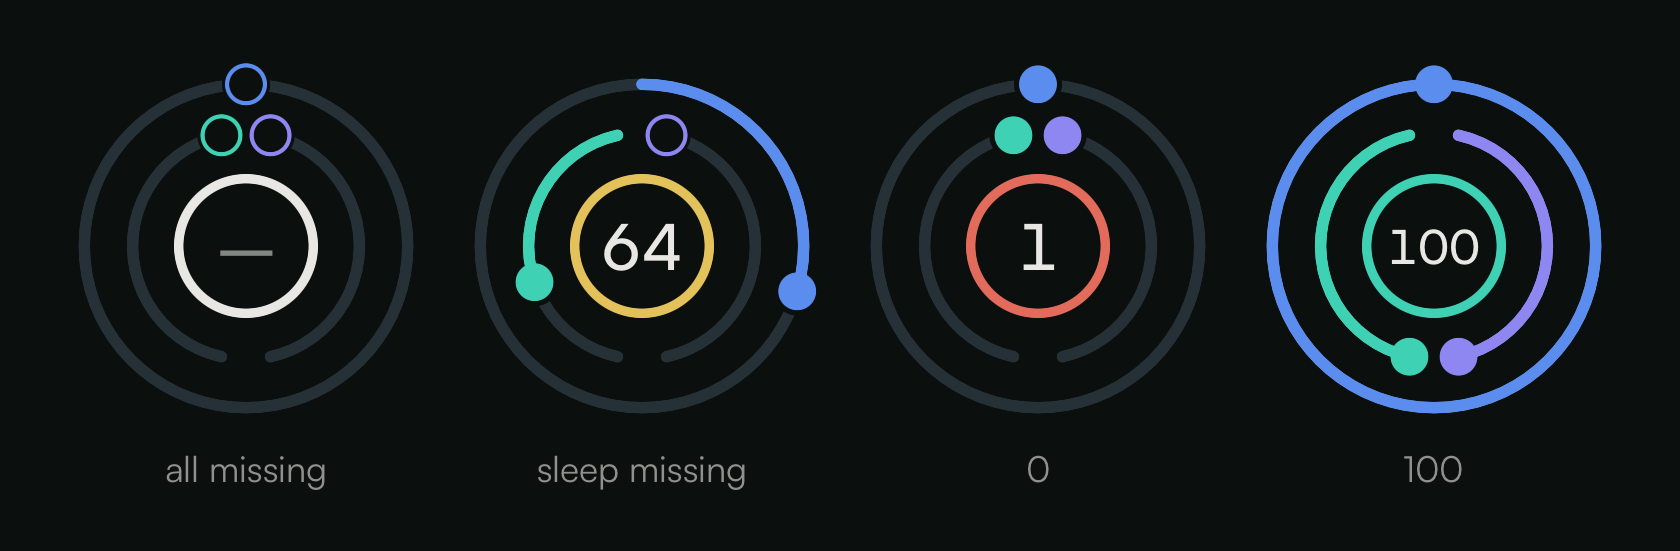
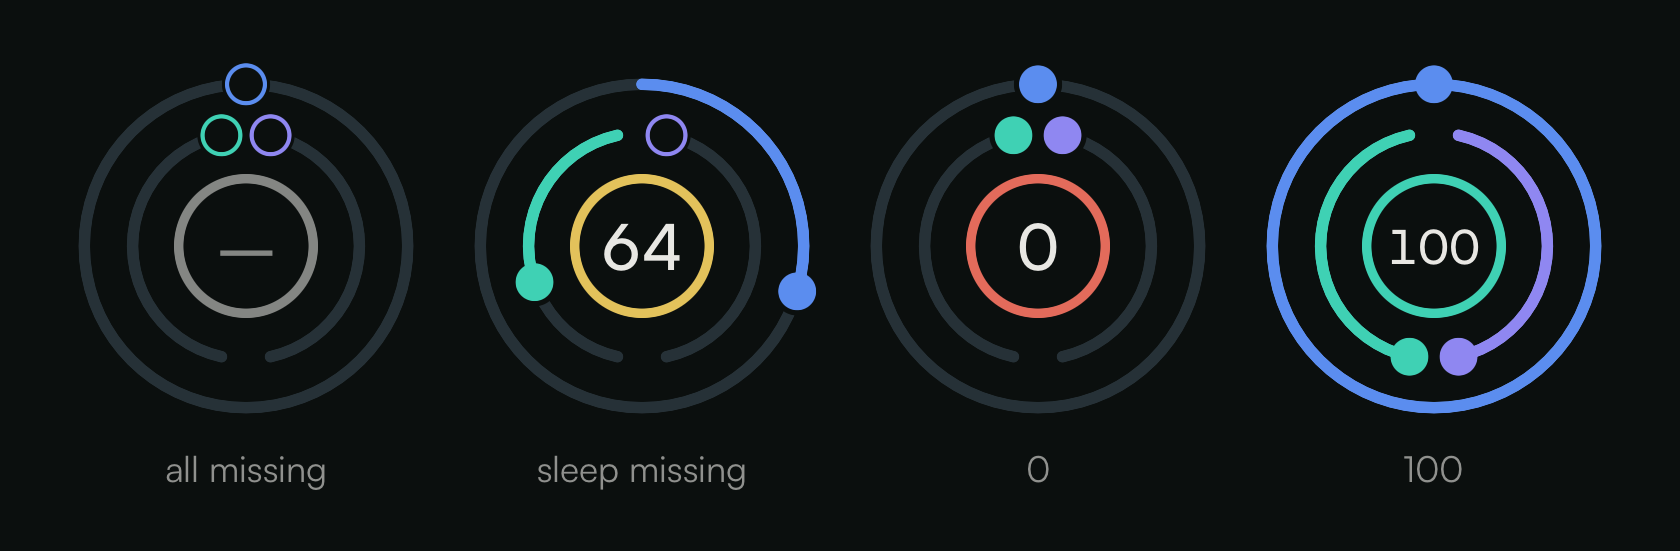
design: OrbitGauge readiness 0 edge, quieter empty centre ring

diff --git a/Ryft/Design/OrbitGauge.swift b/Ryft/Design/OrbitGauge.swift
@@ -120,7 +120,7 @@ struct OrbitGauge: View {
             let d = m.centreRadius * 2 + m.centreStroke
             Circle()
                 .inset(by: m.centreStroke / 2)
-                .stroke(values.readiness.map { Theme.band(forScore: $0) } ?? Theme.textPrimary, lineWidth: m.centreStroke)
+                .stroke(values.readiness.map { Theme.band(forScore: $0) } ?? Theme.textTertiary, lineWidth: m.centreStroke)
                 .frame(width: d, height: d)
             if size.dial >= Self.minDialForNumber {
                 Text(values.readiness.map { String($0) } ?? Fmt.placeholder)
@@ -286,7 +286,7 @@ private struct OrbitCaption: View {
             }
             HStack(spacing: 8) {
                 VStack {
-                    OrbitGauge(mode: .scored(OrbitGaugeValues(readiness: 1, recovery: 0, sleep: 0, strain: 0)), size: .medium)
+                    OrbitGauge(mode: .scored(OrbitGaugeValues(readiness: 0, recovery: 0, sleep: 0, strain: 0)), size: .medium)
                     OrbitCaption(text: "0")
                 }
                 VStack {

diff --git a/RyftTests/OrbitGaugeContrastTests.swift b/RyftTests/OrbitGaugeContrastTests.swift
@@ -49,8 +49,9 @@ import UIKit
                 #expect(onTrack >= 3, "\(name) \(title) on track")
                 #expect(onBackground >= 3, "\(name) \(title) on background")
             }
-            let primary = resolve(Theme.textPrimary, style)
-            lines.append("\(name) centre ring without readiness (textPrimary): on background \(String(format: "%.2f", ratio(primary, background)))")
+            let primary = over(resolve(Theme.textTertiary, style), background)
+            #expect(ratio(primary, background) >= 3, "\(name) centre ring without readiness")
+            lines.append("\(name) centre ring without readiness (textTertiary): on background \(String(format: "%.2f", ratio(primary, background)))")
             lines.append("\(name) track on background \(String(format: "%.2f", ratio(track, background)))")
         }
         print("ORBIT-CONTRAST\n" + lines.joined(separator: "\n"))

diff --git a/RyftTests/OrbitGaugeGeometryTests.swift b/RyftTests/OrbitGaugeGeometryTests.swift
@@ -64,6 +64,15 @@ import Testing
         #expect(OrbitGauge.Size.large.frame == 172)
     }
 
+    @Test func readinessZeroIsZeroNotOne() {
+        let v = OrbitGaugeValues(readiness: 0, recovery: 0, sleep: 0, strain: 0)
+        #expect(v.readiness == 0)
+        #expect(String(v.readiness ?? -1) == "0")
+        let s = OrbitGauge.spokenValue(v)
+        #expect(s.hasPrefix("0, "))
+        #expect(!s.hasPrefix("1, "))
+    }
+
     @Test func spokenValueNamesEveryScore() {
         let s = OrbitGauge.spokenValue(.previewScored)
         // The simulator's region decides the decimal separator: 9.6 or 9,6.

diff --git a/RyftTests/OrbitGaugeShotsTests.swift b/RyftTests/OrbitGaugeShotsTests.swift
@@ -69,7 +69,7 @@ import UIKit
                         caption("sleep missing")
                     }
                     VStack {
-                        OrbitGauge(mode: .scored(OrbitGaugeValues(readiness: 1, recovery: 0, sleep: 0, strain: 0)), size: .medium)
+                        OrbitGauge(mode: .scored(OrbitGaugeValues(readiness: 0, recovery: 0, sleep: 0, strain: 0)), size: .medium)
                         caption("0")
                     }
                     VStack {

diff --git a/docs/work/2026-10-29-orbit-gauge/design.md b/docs/work/2026-10-29-orbit-gauge/design.md
@@ -58,8 +58,8 @@ Example (71 / 71 % / 88 % / 9.6): Recovery head at -122.5 deg (lower left), Slee
 - Arc and dot: the orbit's metric colour, no gradient, no glow. Recovery is teal, Sleep indigo, Strain blue.
 - Missing score: a hollow dot at the start (2 pt outline in the orbit's colour, the track cut out of its inside), no arc. Zero is
   a filled dot with no arc. A hollow dot never means "low".
-- Centre ring: `Theme.band(forScore:)` (teal / yellow / red at 67 / 34) with a readiness, `Theme.textPrimary` without one (and a
-  tertiary "-" inside). It is a ring, not an arc: the number is the readiness, the ring only carries its band.
+- Centre ring: `Theme.band(forScore:)` (teal / yellow / red at 67 / 34) with a readiness, `Theme.textTertiary` without one (and a
+  tertiary "-" inside; 5.25:1 dark, 4.72:1 light on the background). It is a ring, not an arc: the number is the readiness, the ring only carries its band.
 - Teal appears twice at a high band (Recovery and the centre ring). It stays one accent: they never carry different meanings.
 - Stubs (`.calibrating`, `.assembling`, `.pending`): tracks, a centre ring in the track colour and three hollow dots; PR 2 and 3 do the rest.
 
@@ -113,11 +113,13 @@ Computed in `OrbitGaugeContrastTests` from the asset-catalog colours (relative l
 | Strain (`metricStrain`) | 4.12 | 5.97 | 4.42 | 5.04 |
 | Moderate band (`warning`) | 7.69 | 11.14 | 4.03 | 4.61 |
 | Low band (`alert`) | 4.13 | 5.99 | 3.99 | 4.55 |
-| Centre ring without readiness (`textPrimary`) | | 15.59 | | 15.59 |
+| Centre ring without readiness (`textTertiary`, composited) | | 5.25 | | 4.72 |
 
 All at least 3:1 (the lowest: light Recovery, 3.97). The track itself is 1.45:1 on the dark background and 1.14:1 on the light one:
 it is the empty scale, not information, and is the same as `MetricGauge`'s; the hollow dots (2 pt coloured outline) carry the
 "missing" state and have the contrast of the arc colours on the background. The number is `textPrimary` (15.59:1).
+
+The edge preview labelled "0" had passed readiness 1; it now passes 0, and `readinessZeroIsZeroNotOne` covers the number and the spoken value.
 
 ## 7. Tried and rejected
 
